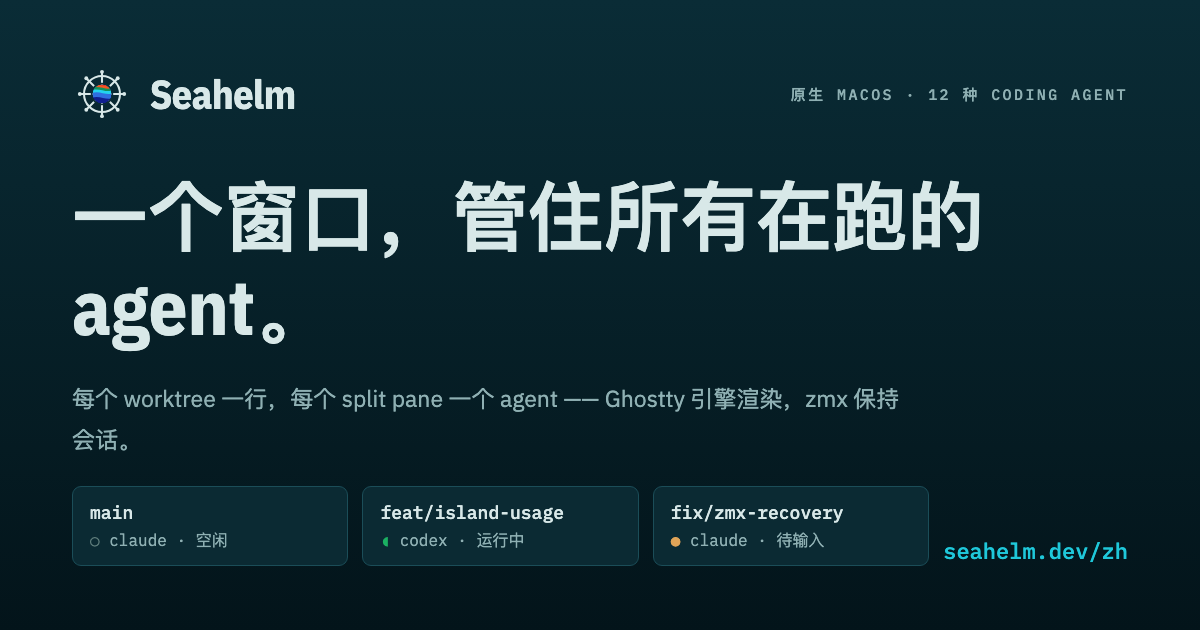
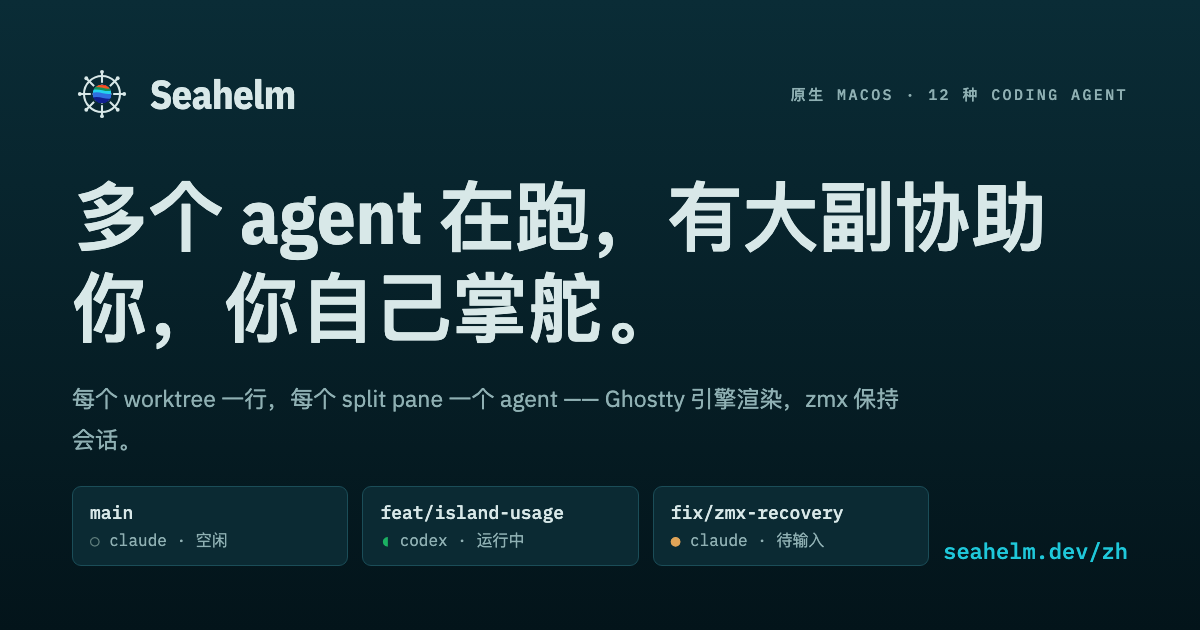
docs(zh): reframe the hero and two section headings
The Chinese hero said "one window, manages every running agent" — a claim
about the window. The page is really about the division of labour: agents
run, First Mate assists, you steer. Says that instead.

The other two headings were questions the sections do not answer in those
words. "底下是什么在跑" reads as "what is running underneath" when the
section is about how the thing is built; "它们还能拼到一起吗" is vaguer
than the continuous integration across worktrees it describes.

"你掌控的是什么" is unchanged.

The hero line also lives in og:title, twitter:title and the social card
source, so all four move together and site/og.zh.png is re-rendered.
English is untouched.

Claude-Session: https://claude.ai/code/session_01KYGZXCWRW3mLnhr8ADuGjh

Changed region(s): [[0.0617, 0.2714, 0.8942, 0.573]]

diff --git a/site/zh/index.html b/site/zh/index.html
@@ -16,7 +16,7 @@
 <meta property="og:url" content="https://www.seahelm.dev/zh/">
 <meta property="og:locale" content="zh_CN">
 <meta property="og:locale:alternate" content="en_US">
-<meta property="og:title" content="Seahelm &mdash; 一个窗口，管住所有在跑的 agent">
+<meta property="og:title" content="Seahelm &mdash; 多个 agent 在跑，你自己掌舵">
 <meta property="og:description" content="Seahelm 是一个为 coding agent、git worktree 和并行开发准备的原生 macOS 工作台。每个 worktree 一行，每个 split pane 一个 agent —— Ghostty 引擎渲染，zmx 保持会话。">
 <meta property="og:image" content="https://www.seahelm.dev/og.zh.png">
 <meta property="og:image:width" content="1200">
@@ -24,7 +24,7 @@
 <meta property="og:image:alt" content="Seahelm — 为 coding agent 准备的原生 macOS 工作台">
 
 <meta name="twitter:card" content="summary_large_image">
-<meta name="twitter:title" content="Seahelm &mdash; 一个窗口，管住所有在跑的 agent">
+<meta name="twitter:title" content="Seahelm &mdash; 多个 agent 在跑，你自己掌舵">
 <meta name="twitter:description" content="Seahelm 是一个为 coding agent、git worktree 和并行开发准备的原生 macOS 工作台。每个 worktree 一行，每个 split pane 一个 agent —— Ghostty 引擎渲染，zmx 保持会话。">
 <meta name="twitter:image" content="https://www.seahelm.dev/og.zh.png">
 
@@ -82,7 +82,7 @@
 
     <div class="hero">
       <p class="eyebrow"><span class="mark">&#9679;</span> 为 coding agent 准备的原生 macOS 工作台</p>
-      <h1>一个窗口，管住所有在跑的 agent。</h1>
+      <h1>多个 agent 在跑，有大副协助你，你自己掌舵。</h1>
       <p class="lede">
         你的舰队排在一张名册上：每个 worktree 一行，按仓库、状态或最近动向编队，每个 split pane
         里坐着一个 agent。Seahelm 用 Ghostty 引擎把它们逐个画出来，盯着谁在干活、谁在等你，
@@ -357,7 +357,7 @@
   <div class="wrap">
     <div class="deck-head">
       <div class="rule-row"><p class="eyebrow">甲板二 &middot; 甲板之下</p></div>
-      <h2>底下是什么在跑</h2>
+      <h2>底下的技术是如何构建的？</h2>
       <p class="lede prose">
         247 个 Swift 文件，分四层，跑在 Ghostty 终端引擎之上。没有 Combine，也没有 SwiftUI ——
         用的是 AppKit 加 delegate，因为屏幕上那个东西本质是一块 Metal surface，后面接着一个 PTY。
@@ -651,7 +651,7 @@
   <div class="wrap">
     <div class="deck-head">
       <div class="rule-row"><p class="eyebrow">甲板三 &middot; 汇合点</p></div>
-      <h2>它们还能拼到一起吗？</h2>
+      <h2>多个 worktree 如何持续集成？</h2>
       <p class="lede prose">
         六个 agent，六个 worktree，六个分支，单看每一个都是绿的。但它们放<em>一起</em>还能不能跑，
         这个问题通常要拖到合并那天才有人回答。Seahelm 每一轮结束就回答一次 ——

diff --git a/scripts/og-card.zh.html b/scripts/og-card.zh.html
@@ -50,7 +50,7 @@
     <span class="eyebrow">原生 macOS &middot; 12 种 coding agent</span>
   </div>
 
-  <h1>一个窗口，管住所有在跑的 agent。</h1>
+  <h1>多个 agent 在跑，有大副协助你，你自己掌舵。</h1>
   <p class="sub">每个 worktree 一行，每个 split pane 一个 agent &mdash;&mdash;
      Ghostty 引擎渲染，zmx 保持会话。</p>
 
